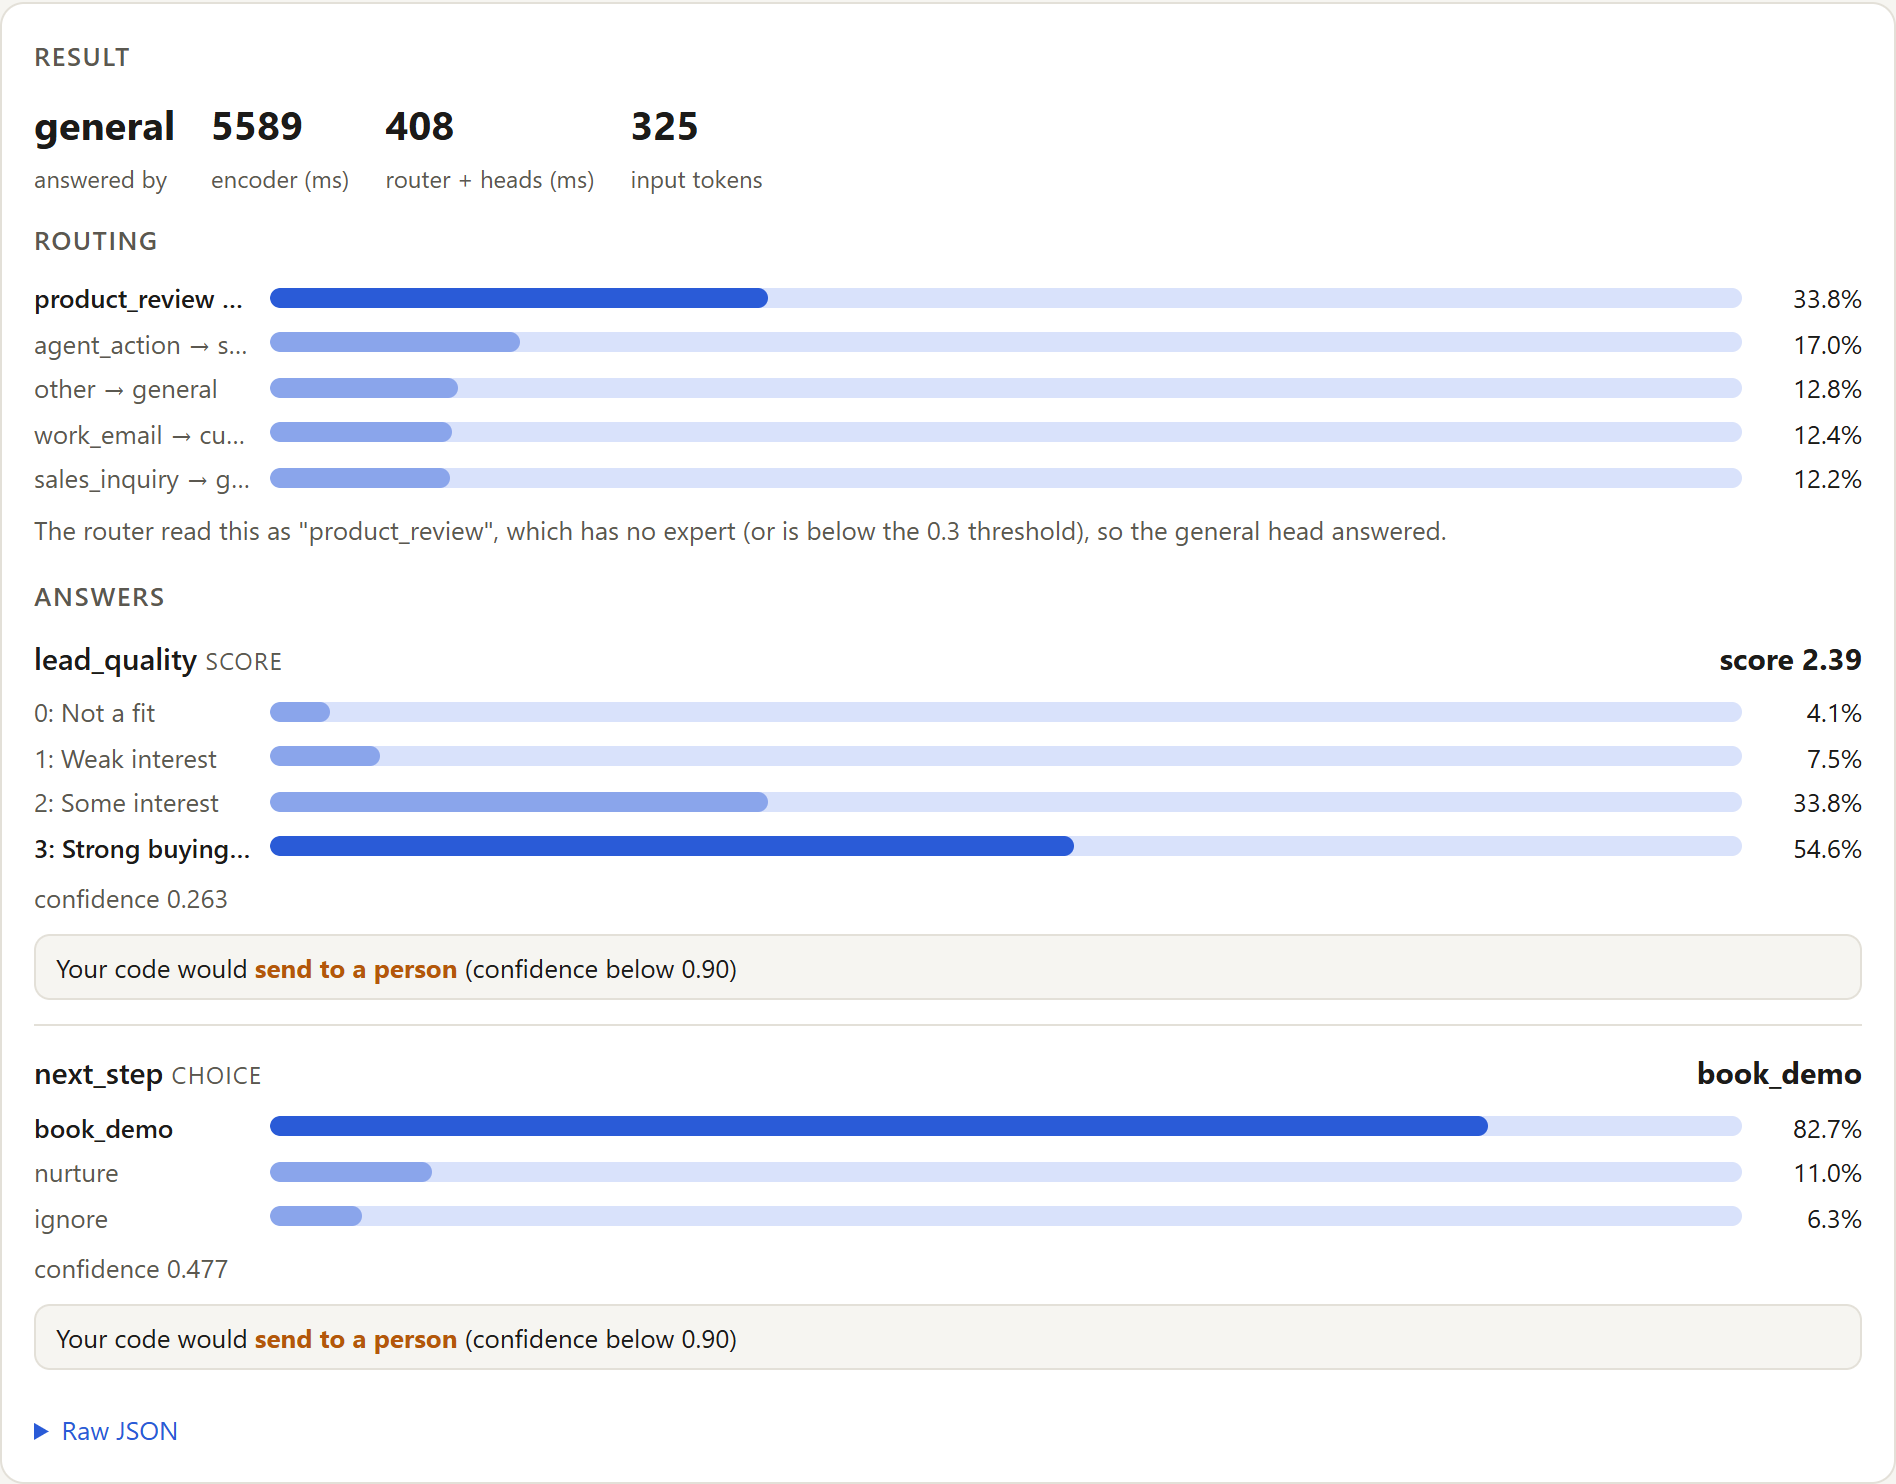
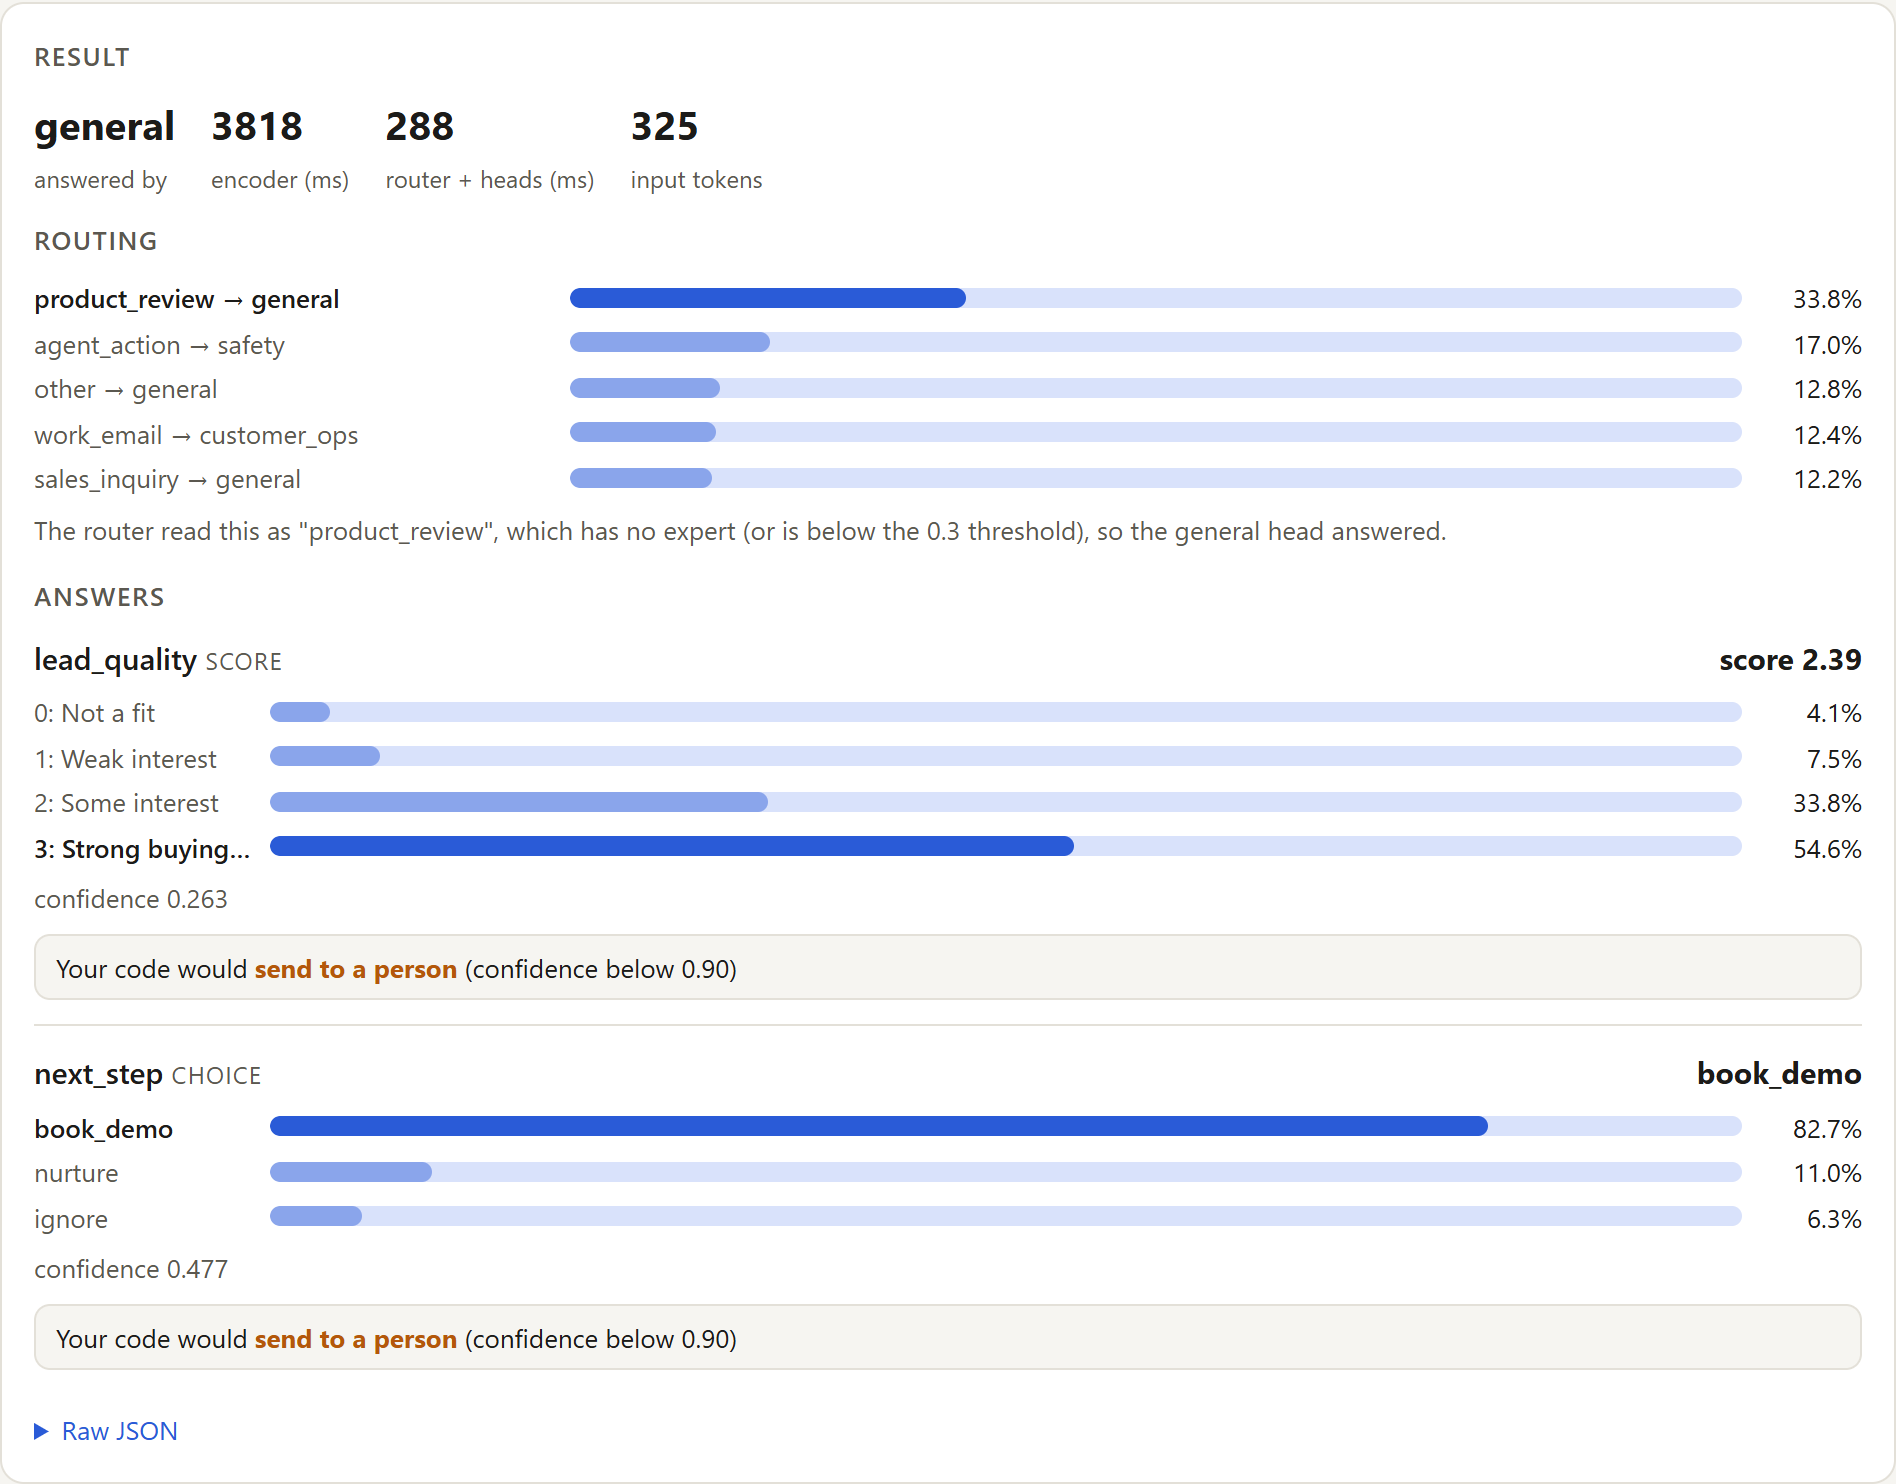
Documentation Update
Article (docs/article.md) with screenshots recaptured from the live
GitHub Pages demo after the routing-label fix.

diff --git a/docs/article.md b/docs/article.md
@@ -1,0 +1,151 @@
+# A mixture of experts for a decision encoder: layaMOE
+
+*Domain experts on top of Laya, trained on a laptop CPU, running in the browser.*
+
+**Live demo:** https://vishalmysore.github.io/layaMOE/ · **Code:** https://github.com/vishalmysore/layaMOE · **Expert heads:** [VishalMysore/layaMOE](https://huggingface.co/VishalMysore/layaMOE) · **Browser build:** [VishalMysore/laya-moe-web](https://huggingface.co/VishalMysore/laya-moe-web)
+
+---
+
+## The problem
+
+[Laya](https://huggingface.co/convaiinnovations/laya-typed-decisions) is a decision model, not a chat model. You give it some text and a few typed questions (a *choice* between labeled options, a *score* on an ordered scale, or a *yes/no*), and it answers all of them in one forward pass with calibrated probabilities. It is a ModernBERT-large encoder plus a small two-layer decision head, 421M parameters in total, and small enough to run in a browser tab.
+
+On 108 hand-labeled cases across nine domains, `laya-typed-decisions` gets 59.6% of 312 answers right. The average hides a wide spread:
+
+| Domain | Correct |
+|---|---|
+| patient messages | 83.3% |
+| product reviews | 77.8% |
+| content moderation | 75.0% |
+| support tickets | 66.7% |
+| IT incidents | 61.1% |
+| email triage | 52.8% |
+| delivery exceptions | 47.2% |
+| sales leads | 41.7% |
+| **agent guardrails** | **39.6%** |
+
+The weakest domain, deciding whether an AI agent's planned action is destructive or needs a human, is also the one where a mistake costs the most. On score questions the model mostly answers the middle of the scale: it rated the risk of all twelve agent actions "Medium".
+
+The obvious fix is to fine-tune on guardrail data. But one fine-tuned model per domain means shipping 421M parameters per domain, and a single model fine-tuned on everything can lose what it was good at. This project tries something in between.
+
+## Why not a "real" mixture of experts?
+
+The mixture-of-experts models in the news (DeepSeek-V3, and tutorials like nanoMoE) replace every feed-forward block of a language model with N experts and a per-token router, trained from scratch with load-balancing losses. That design does not fit here:
+
+- Laya is an encoder with a decision head, not a text generator. Per-token experts learn whatever specialisation helps the loss. They do not line up with "safety" or "customer operations", which is the split we actually want.
+- N copies of every feed-forward block multiply the download, and ONNX Runtime Web has no sparse MoE kernel, so a browser would compute every expert anyway.
+
+## The design: shared encoder, expert heads, one router
+
+```
+             text + typed questions
+                      │
+          ┌───────────▼────────────┐
+          │  ModernBERT encoder    │  395M params, frozen, shared by every expert
+          └───────────┬────────────┘
+                      │ hidden states (computed once per request)
+       router ────────┼──────────────────────┐
+                      ▼                      ▼
+   ┌──────────┐  ┌──────────────┐  ┌──────────────┐
+   │ general  │  │    safety    │  │ customer_ops │   each head: 26.5M params
+   │ original │  │ guardrails + │  │ tickets +    │   (type embedding, 2 transformer
+   │   head   │  │ moderation   │  │ delivery +   │    layers, scorer)
+   └──────────┘  └──────────────┘  │ email        │
+                                   └──────────────┘
+```
+
+- **The encoder is frozen and shared.** Nothing below the decision head changes, so the domains without an expert keep exactly the behaviour they had.
+- **An expert is a copy of Laya's decision head**, fine-tuned for a group of domains. At 26.5M parameters it is about 6% of the model.
+- **The router runs once per request, not once per token.** It asks the base model one extra choice question, "What kind of text is this?", and each answer maps to an expert or to the general head.
+
+A quick check before training anything: running the frozen encoder and then a copied head reproduces the original model's logits exactly (maximum difference 0.0). The split is a refactoring, not an approximation.
+
+## Training on a laptop CPU
+
+Because the encoder never changes, its output for each training example only has to be computed once. `cache_features.py` runs the encoder over every (text, question) pair and stores the hidden states in fp16 (they differ from fp32 by 3e-4). `train_expert.py` then trains only the head on those cached features. There is no GPU anywhere in this project.
+
+**Data.** There is no public dataset of labeled agent actions, so `gen_train_data.py` builds synthetic cases from slots. For guardrails the slots are the action (read, write, delete, send, change a security setting, move money), the environment (production, staging, sandbox), and the safety net (a verified backup, versioning, `--dry-run`, or nothing). Each label is computed from the slots by an explicit rule: for example, "DELETE on production with no backup" is destructive, needs a human, and is critical risk, and the same command with `--dry-run` is safe. Question wordings are paraphrased and choice options are shuffled, so an expert learns the domain rather than one prompt. That gives 500 cases per domain and about 8,500 question items in total. Any generated case that shares a five-word sequence with an evaluation case is dropped.
+
+**Loss.** Cross-entropy, plus a ranked-probability term on score questions. The ranked-probability term penalises probability mass that sits far from the right level, which works against the base model's habit of answering the middle of every scale.
+
+**One lesson.** The head needs a much higher learning rate than full fine-tuning would. At 3e-5 it barely moved (validation 58% → 59% after four epochs), and I briefly suspected a bug. An overfitting test on 64 examples settled it: at 3e-4 the head fits them to 95% within 40 steps. The final runs use 6e-4 for six epochs:
+
+| Expert | Train / val items | Base head | Expert | CPU time |
+|---|---|---|---|---|
+| safety | 3,120 / 380 | 58.4% | 73.4% | ~45 min |
+| customer_ops | 4,011 / 489 | 57.3% | 75.9% | ~100 min |
+
+(These numbers are on held-out *synthetic* data. The real test is below.)
+
+## The router, twice
+
+The first router asked the base model which expert should answer, with three broad options ("an AI agent's action or a comment to moderate", "a support ticket, delivery problem or work email", "anything else"). It performed badly: 9 of 12 guardrail cases went to the general head, and half of the patient messages went to customer_ops, which made them worse.
+
+The fix was to ask a question the model is good at: what kind of text this is, from ten concrete kinds (agent action, public comment, support ticket, delivery issue, work email, IT alert, patient message, product review, sales inquiry, other). A fixed table maps each kind to an expert or to the general head. With that change, guardrails reach the safety expert 12 times out of 12, and patient messages and IT alerts stay on the general head 12 times out of 12.
+
+The router can be seen at work in the demo. For an agent action it reads "agent_action" at 74%:
+
+![Guardrail example: routing to the safety expert, expert vs general head](images/guardrail-drop-table.png)
+
+## Results
+
+Evaluation uses the 108 hand-labeled cases (312 answers), none of which were used for training. Each question gets three answers: **general** is the original head, **oracle** is the expert that owns the domain (the result a perfect router would give), and **moe** is what the router actually picked.
+
+| Domain | general | oracle | moe |
+|---|---|---|---|
+| agent guardrails | 39.6% | 66.7% | **66.7%** |
+| content moderation | 75.0% | 83.3% | 75.0% |
+| delivery exceptions | 47.2% | 63.9% | **63.9%** |
+| email triage | 52.8% | 58.3% | 50.0% |
+| support tickets | 66.7% | 80.6% | **83.3%** |
+| four domains without an expert | 66.7% | | 66.7% |
+| **All** | **59.6%** | 68.9% | **67.3%** |
+
+Most of the gain is on score questions (41.7% → 59.4%) and yes/no questions (68.3% → 78.3%). Choice questions got slightly worse (66.7% → 61.5%), mainly on email and moderation cases that were routed to the wrong head. The four domains with no expert are unchanged, which is the point of keeping the original head.
+
+In the support-ticket example below, the expert is sure it is a bug, due today, and that the customer is not angry. The general head put 55% on "angry" for a calm message.
+
+![Support ticket routed to customer_ops](images/support-ticket.png)
+
+When the input fits no expert, the general head answers as before:
+
+![A sales lead falls back to the general head](images/out-of-domain-sales.png)
+
+## In the browser
+
+`export_web.py` exports the encoder and each head as separate ONNX graphs with weight-only int8 quantization: a 390 MB encoder and a 32 MB file per head, split into 24 MB parts with SHA-256 hashes and hosted on Hugging Face. The page runs them with ONNX Runtime Web on WASM. It downloads everything once, caches it in the browser, and then works offline. Nothing typed into the page leaves the machine.
+
+Because the graphs are split, one encoder pass covers the router question and all of the user's questions together. The heads are cheap after that, so the "compare with the general head" view costs about 0.3–0.6 s extra rather than a second full run. With three questions on four WASM threads, a request takes about 4–5 s for the encoder and under 1 s for the router and heads.
+
+![The demo page](images/page-start.png)
+
+Quantization does not cost accuracy on the evaluation set. Run through the same int8 files the page uses, the MoE scores 67.9% (67.3% in PyTorch), the general head scores 58.7% (59.6%), and routing matches PyTorch on every case.
+
+## Limits
+
+- **Small evaluation.** There are only 12 cases per domain, so one case is three or four answers and per-domain differences under about 10 points are noise.
+- **The router was designed after seeing the eval set.** Its list of kinds was written once, after the first router failed there. The descriptions are generic and nothing was tuned per case, but this is still a look at the test set.
+- **Synthetic training data.** Template data teaches the rules I wrote down, including my blind spots.
+- **The experts can be confidently wrong.** This case from the demo shows it:
+
+  ![Delivery example: the expert is 99% sure the customer is not upset](images/delivery-exception.png)
+
+  The customer has written three times about a parcel that has not moved in 12 days. The expert says "not upset" with 98.9% confidence and would act automatically. A similar hand-labeled case is marked "upset". The synthetic data only marked customers as upset when they used angry words, and the expert learned exactly that rule. Fine-tuning made this answer more confident, not more correct.
+
+- **Some answers are still weak where they matter most.** For `DROP TABLE` on production with no backup, the safety expert says destructive at 68% but "needs a human" at only 32%.
+
+The confidence values are still useful, but they need checking on your own data before a threshold is trusted, and a person should stay in the loop.
+
+## What's next
+
+- Train the router instead of prompting it. Moderation and email are the domains it routes worst.
+- Use more varied training data, with labels that don't depend on surface wording. The "upset" example above shows why.
+- Try LoRA on the top encoder layers on a GPU. Training only the head was still improving at epoch 6, and there is headroom left.
+- Add more experts, starting with IT incidents and sales leads.
+
+## Try it
+
+- Demo: https://vishalmysore.github.io/layaMOE/ (downloads about 490 MB once, then runs offline; Chrome or Edge recommended)
+- Reproduce: see the [README](../README.md). Everything runs on a CPU: `gen_train_data.py`, `cache_features.py`, `train_expert.py`, `eval_moe.py`, `export_web.py`.
+
+*Built on laya-typed-decisions by ConvAI Innovations and ModernBERT-large by Answer.AI and LightOn (both Apache-2.0). Unofficial and not affiliated with ConvAI Innovations.*

diff --git a/README.md b/README.md
@@ -145,6 +145,8 @@ print(out["expert"], out["routing"], out["answers"])
 | `data/eval/` | 108 hand-labeled cases in 9 domains (from layaForWeb) |
 | `data/train/` | generated training data |
 
+Article: [docs/article.md](docs/article.md).
+
 Not in git: `.venv/`, `cache/` (encoder features), `checkpoints/` (expert weights, on Hugging Face at [VishalMysore/layaMOE](https://huggingface.co/VishalMysore/layaMOE)), `build/` (browser files, at [VishalMysore/laya-moe-web](https://huggingface.co/VishalMysore/laya-moe-web)).
 
 ## Browser build
